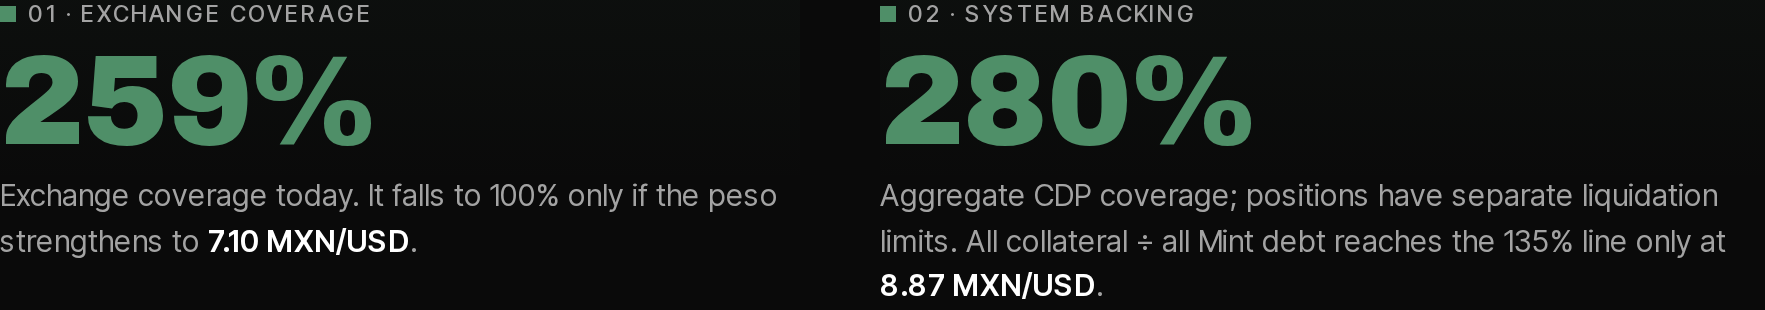
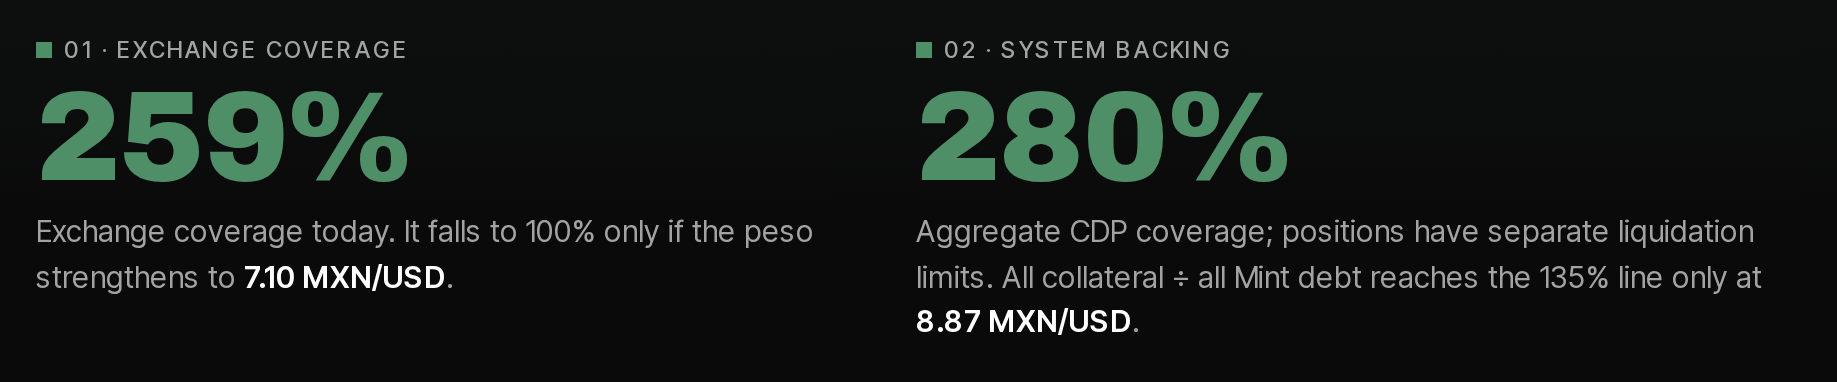
deck: risk crop padded with the panel's own background (no visible seams)

diff --git a/deck/project/slides/compounds.html b/deck/project/slides/compounds.html
@@ -5,7 +5,7 @@
 <p data-build-in="rise 2" style="position:absolute;left:128px;top:300px;width:1664px;font-size:36px;font-weight:500;line-height:1.3;color:#C9C9C9">The same currency connects payments, credit, and savings.</p>
 <p data-build-in="rise 3" style="position:absolute;left:128px;top:384px;width:1664px;font-family:'Inter Tight', Arial, sans-serif;font-size:36px;font-weight:600;line-height:1.2"><span style="color:#8DBF9E">Mint</span> <span style="color:#666666">→</span> <span style="color:#E2603F">Remesas · Global</span> <span style="color:#666666">→</span> <span style="color:#E36A97">Crédito</span> <span style="color:#666666">→</span> <span style="color:#F2E6C9">Card</span> <span style="color:#666666">→</span> <span style="color:#E5A823">Invest</span> <span style="color:#666666">→</span> <span style="color:#8DBF9E">Mint</span></p>
 <p data-build-in="fade 3" style="position:absolute;left:128px;top:470px;width:1664px;font-family:'Inter Tight', Arial, sans-serif;font-size:24px;color:#8DBF9E;text-transform:uppercase;letter-spacing:3px;font-weight:600">The risk we show: a stronger peso</p>
-<div data-build-in="fade 3" style="position:absolute;left:128px;top:524px;width:1664px;height:345px;border-radius:16px;border:1px solid rgba(255,255,255,0.14);box-shadow:0 24px 64px rgba(0,0,0,0.55);background:#0A0A0A;overflow:hidden"><img src="/_blob/66cf9bcc17decf13e261b1333a15d22c" alt="Mercado Mint risk view: exchange coverage 259%, falling to 100% only if the peso strengthens to 7.10 per dollar; system backing 280%, reaching the 135% line only at 8.87" style="position:absolute;left:32px;top:32px;width:1600px;height:281px;object-fit:contain"></div>
+<div data-build-in="fade 3" style="position:absolute;left:128px;top:524px;width:1664px;height:346px;border-radius:16px;border:1px solid rgba(255,255,255,0.14);box-shadow:0 24px 64px rgba(0,0,0,0.55);background:#0A0A0A;overflow:hidden"><img src="/_blob/66cf9bcc17decf13e261b1333a15d22c" alt="Mercado Mint risk view: exchange coverage 259%, falling to 100% only if the peso strengthens to 7.10 per dollar; system backing 280%, reaching the 135% line only at 8.87" style="position:absolute;left:0;top:0;width:1664px;height:346px;object-fit:cover"></div>
 <p style="position:absolute;left:128px;bottom:64px;width:1200px;font-family:'Inter Tight', Arial, sans-serif;font-size:24px;color:#8A8A8A;text-transform:uppercase;letter-spacing:3px;font-weight:600">Mercado</p>
 <p style="position:absolute;right:128px;bottom:64px;width:120px;font-family:'Inter Tight', Arial, sans-serif;font-size:24px;text-align:right;color:#8A8A8A;text-transform:uppercase;letter-spacing:3px;font-weight:600">05</p>
 <aside>First the loop: an advance becomes a shop receipt; a remittance can become peso savings. On Mint, eligible assets support separate collateralized debt. (Pause.) Then the risk: we show what peso appreciation does to backing; credit, liquidity and admin-control risks remain.</aside>
